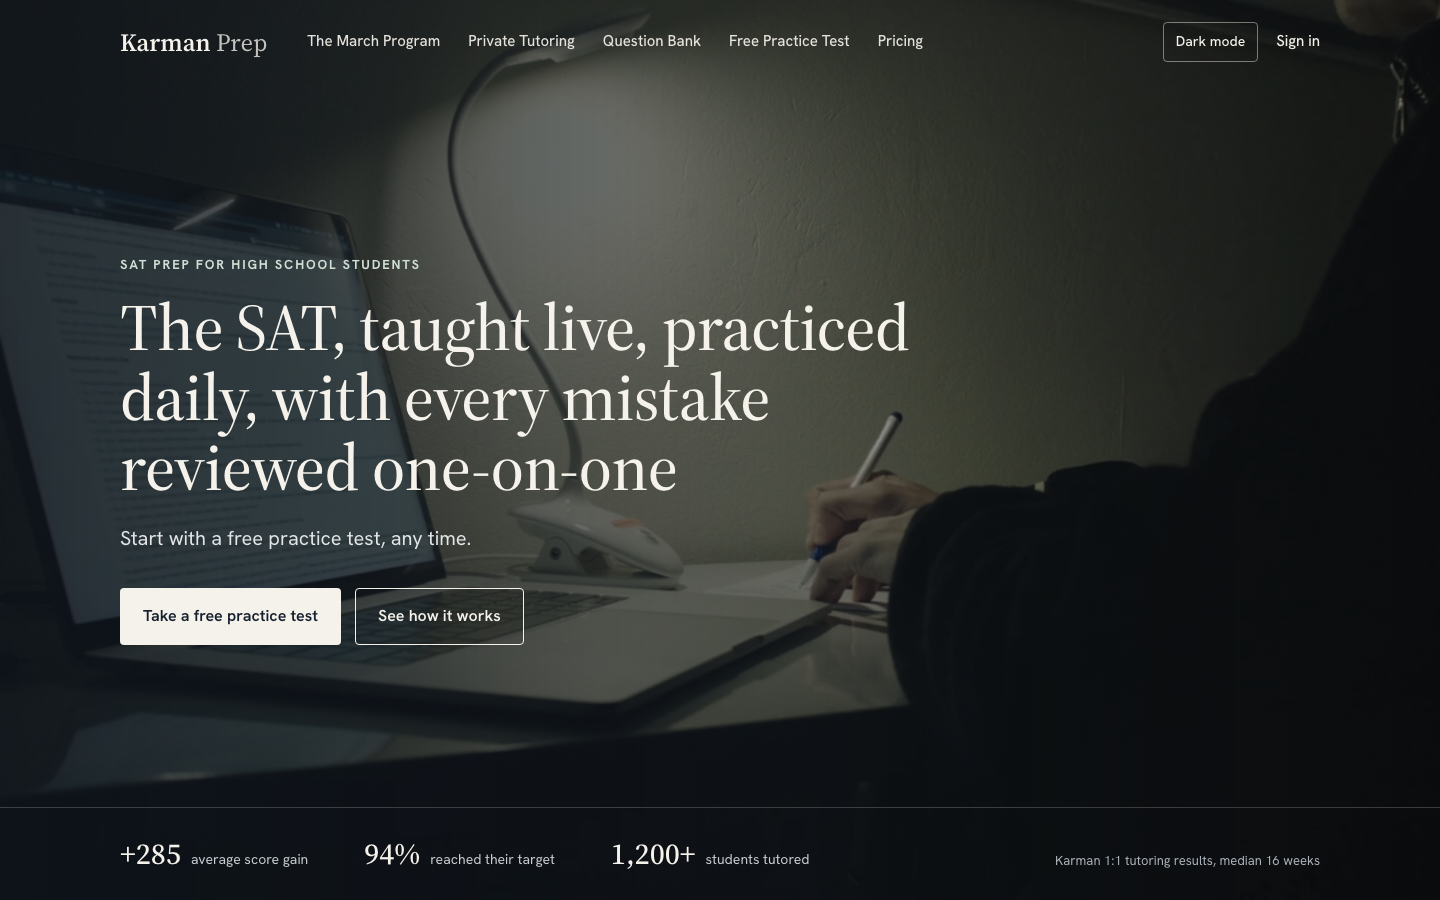
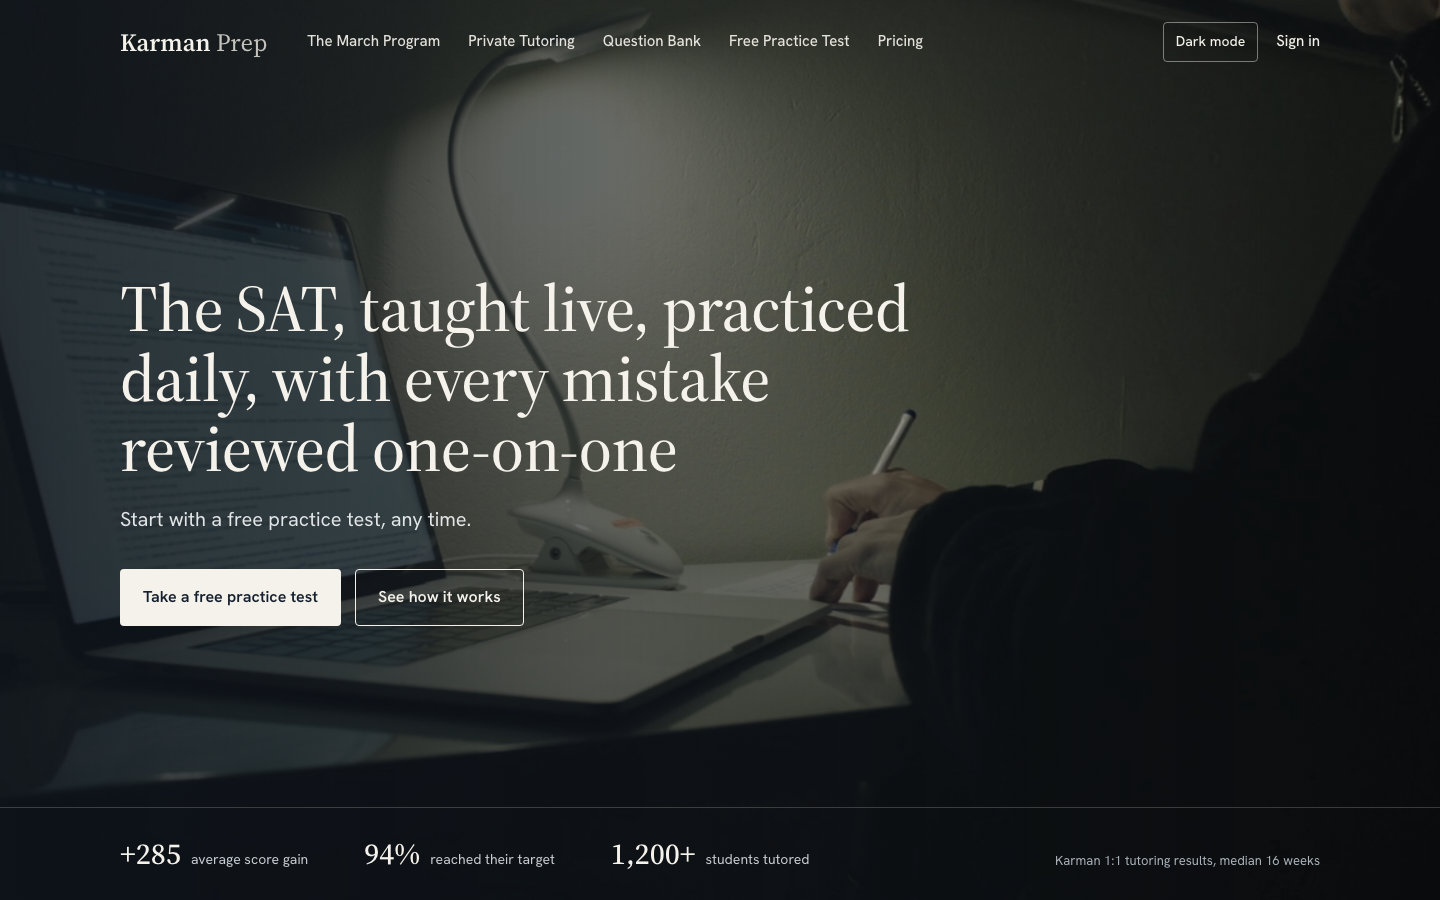
Drop generic section labels from the homepage mockup; keep only product names

Changed region(s): [[0.0625, 0.28, 0.625, 0.7156], [0.5938, 0.4667, 0.625, 0.56], [0.5625, 0.56, 0.5938, 0.6222]]

diff --git a/.impeccable/mocks/decision/home-v2.html b/.impeccable/mocks/decision/home-v2.html
@@ -46,7 +46,7 @@
   .wrap { width: min(1200px, calc(100% - 64px)); margin: 0 auto; }
   .eyebrow { font-size: 13px; font-weight: 700; letter-spacing: .14em; text-transform: uppercase; color: var(--ink-3); }
   h1, h2, h3 { font-family: var(--serif); font-weight: 500; letter-spacing: -.01em; }
-  h2 { font-size: 44px; line-height: 1.1; margin-top: 14px; max-width: 760px; }
+  h2 { font-size: 44px; line-height: 1.1; max-width: 760px; }
   h3 { font-size: 24px; line-height: 1.25; }
   .lede { font-size: 19px; color: var(--ink-2); max-width: 620px; margin-top: 14px; }
   section.s { padding: 104px 0; }
@@ -76,7 +76,7 @@
   .hero .shade { position: absolute; inset: 0; background: linear-gradient(90deg, rgba(14,20,28,.84) 0%, rgba(14,20,28,.6) 50%, rgba(14,20,28,.25) 100%); }
   .hero .inner { position: relative; height: 100%; display: flex; flex-direction: column; justify-content: center; }
   .hero .eyebrow { color: #cfe0d6; }
-  .hero h1 { font-size: 66px; line-height: 1.06; max-width: 820px; margin: 18px 0 20px; }
+  .hero h1 { font-size: 66px; line-height: 1.06; max-width: 820px; margin: 0 0 20px; }
   .hero .sub { font-size: 20px; color: #e3e6e8; }
   .hero .ctas { display: flex; gap: 14px; margin-top: 34px; flex-wrap: wrap; }
   .hero .btn-main { background: #f5f2eb; color: #15202e; }
@@ -186,7 +186,7 @@
 
   /* close */
   .close { text-align: center; }
-  .close h2 { margin: 14px auto 0; }
+  .close h2 { margin: 0 auto; }
   .close .lede { margin: 14px auto 0; }
   .close .ctas { display: flex; gap: 14px; justify-content: center; margin-top: 32px; flex-wrap: wrap; }
 
@@ -250,7 +250,7 @@
     </video>
     <div class="shade"></div>
     <div class="wrap inner">
-      <p class="eyebrow">SAT prep for high school students</p>
+      
       <h1>The SAT, taught live, practiced daily, with every mistake reviewed one-on-one</h1>
       <p class="sub">Start with a free practice test, any time.</p>
       <div class="ctas">
@@ -271,7 +271,7 @@
   <section class="s">
     <div class="wrap why">
       <div>
-        <p class="eyebrow">Why scores stall</p>
+        
         <h2>Most students keep making the same mistakes on every practice test</h2>
       </div>
       <div class="points">
@@ -284,7 +284,7 @@
 
   <section class="s alt" id="how">
     <div class="wrap">
-      <p class="eyebrow" style="color:var(--program)">How Karman works</p>
+      
       <h2>After every practice test, each mistake is found, explained and brought back until it sticks</h2>
       <div class="demo">
         <div class="panel review" aria-label="Example of a mistake review">
@@ -313,7 +313,7 @@
 
   <section class="s">
     <div class="wrap">
-      <p class="eyebrow">Everything your student gets</p>
+      
       <h2>Classes, practice, reviews and updates in one place</h2>
       <div class="eco">
         <div class="group"><h3>Learn</h3>
@@ -341,7 +341,7 @@
 
   <section class="s alt">
     <div class="wrap">
-      <p class="eyebrow" style="color:var(--program)">How the nine weeks run</p>
+      
       <h2>From a proctored baseline to test morning</h2>
       <div class="steps">
         <div class="step"><span class="n">01</span><div><h3>A real baseline</h3><p>An official Bluebook practice test, proctored live, then a 1:1 review of every mistake.</p></div><span class="when"><b>Week 1</b>Starts January 4</span></div>
@@ -356,7 +356,7 @@
     <div class="wrap split">
       <div class="photo">Photo of Zakaria<br>(your photo goes here)</div>
       <div>
-        <p class="eyebrow">Who teaches</p>
+        
         <h2>Zakaria Bennis teaches every class and runs every review</h2>
         <p class="lede">99th percentile SAT. He has tutored more than 1,200 students and built Karman around the method that worked for them.</p>
         <div class="stats">
@@ -372,7 +372,7 @@
 
   <section class="s alt">
     <div class="wrap">
-      <p class="eyebrow">Two ways to prepare</p>
+      
       <h2>A small live group, or one-on-one</h2>
       <div class="paths">
         <div class="path program"><span class="k">The March Program</span><div><h3>Nine weeks in a group of six, ending on the March 6 SAT</h3><p>Live classes, five full-length tests each reviewed 1:1, and weekly updates for parents.</p></div><a class="more" href="#">Explore the program</a></div>
@@ -383,7 +383,7 @@
 
   <section class="s">
     <div class="wrap">
-      <p class="eyebrow" style="color:var(--free)">Free to start</p>
+      
       <h2>See where your student stands before you decide anything</h2>
       <div class="free-grid">
         <div class="panel feature">
@@ -409,7 +409,7 @@
   <section class="s alt">
     <div class="wrap parent">
       <div>
-        <p class="eyebrow">For parents</p>
+        
         <h2>Every week, you&apos;ll know exactly how it&apos;s going</h2>
         <p class="lede">A short update after each week: how much your student practiced, which classes they attended, their latest score and what comes next.</p>
       </div>
@@ -426,7 +426,7 @@
 
   <section class="s">
     <div class="wrap">
-      <p class="eyebrow">Questions</p>
+      
       <h2>What parents ask before they enroll</h2>
       <div class="faq">
         <details open><summary>What does it cost?</summary><p>The March Program is $995 for the founding cohort, or three monthly payments of $345. Private tutoring starts at $1,450 for 10 hours. <a href="#">See pricing</a></p></details>
@@ -440,7 +440,7 @@
 
   <section class="s alt close">
     <div class="wrap">
-      <p class="eyebrow">Start here</p>
+      
       <h2>Find out where your student stands today</h2>
       <p class="lede">A free practice test, any time, with a score range and a skill breakdown.</p>
       <div class="ctas">
